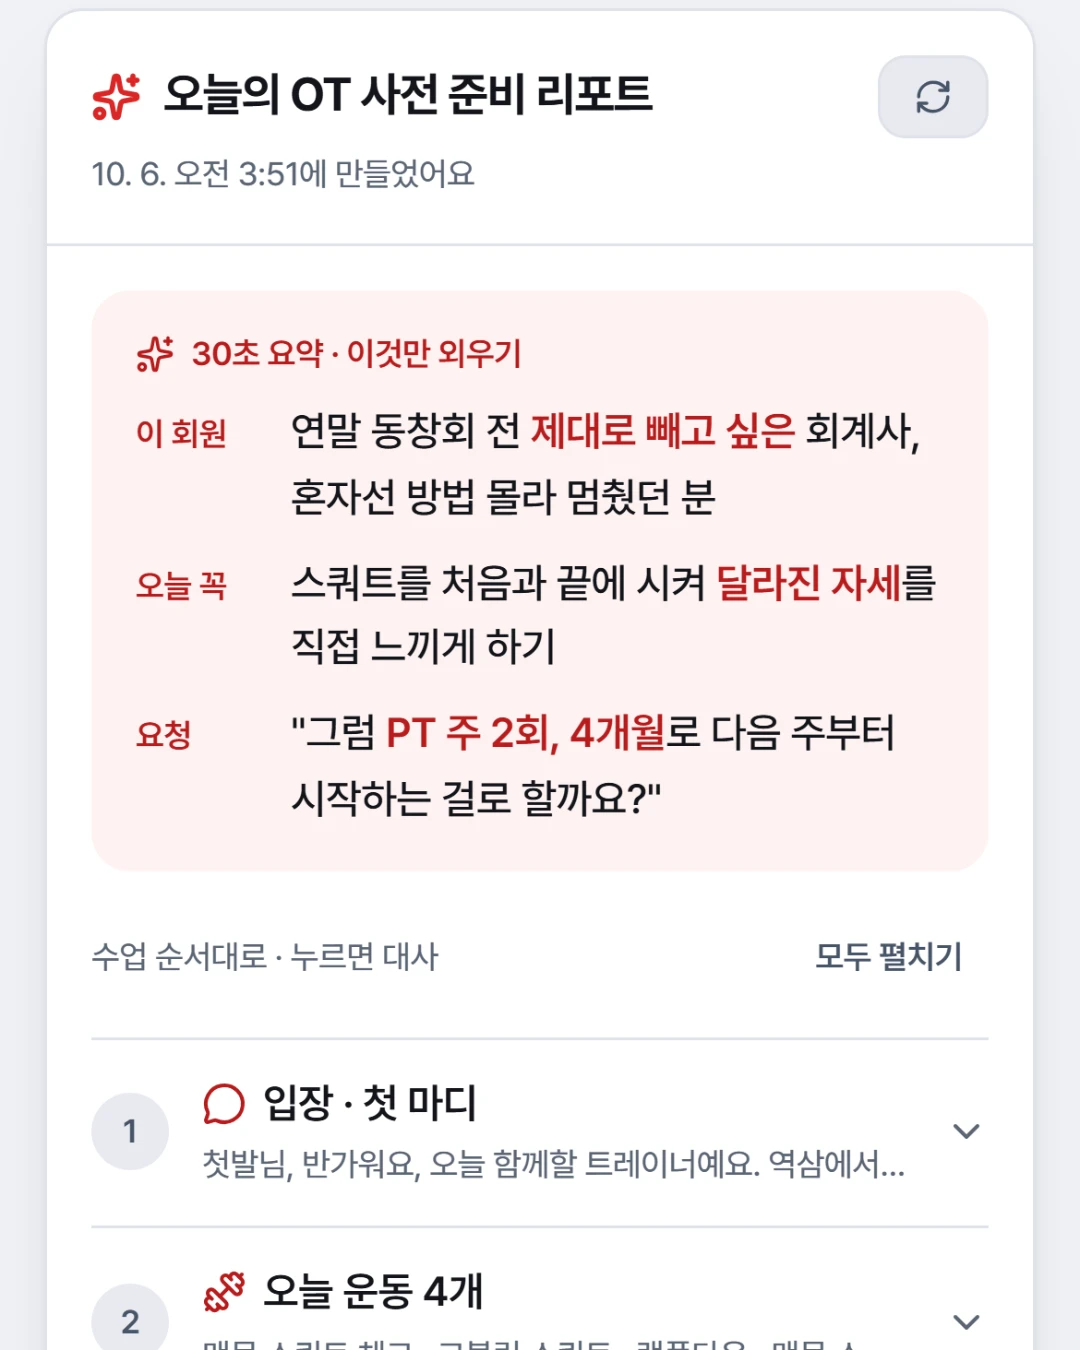
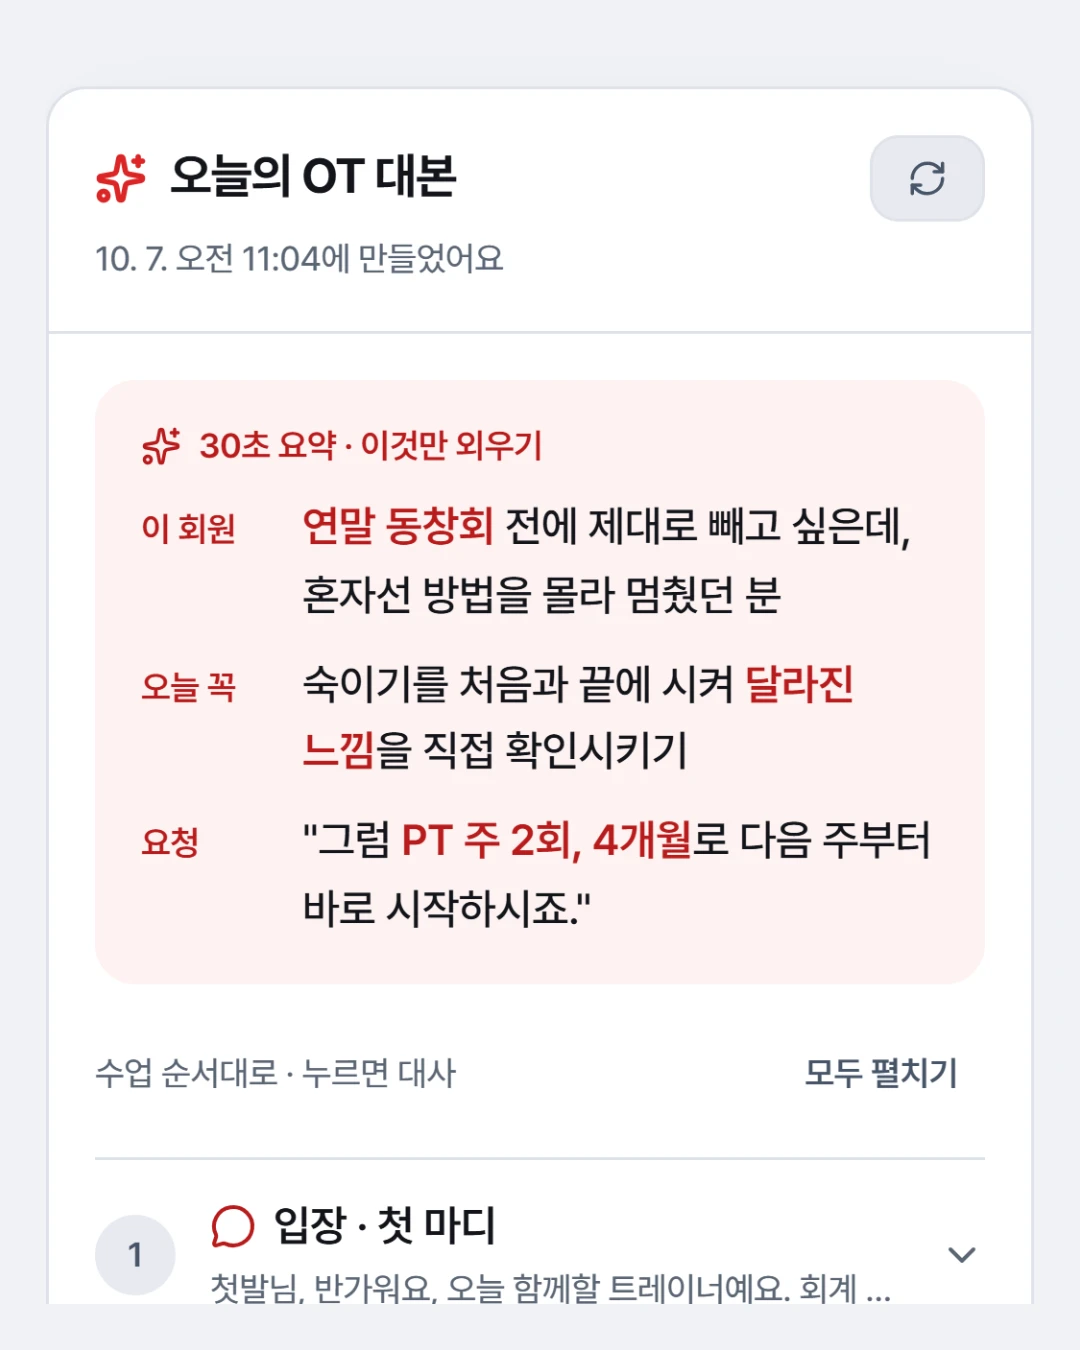
shots(lp): 대본 사진을 새 이름 · 새 클로징으로 다시 찍음(T07 · T09 · T09b · T15 · W03 · W04) · 운동일지 '앱이 정리' 실제 결과(T26)

diff --git a/app/lp/page.jsx b/app/lp/page.jsx
@@ -57,7 +57,7 @@ const LOG_STEPS = [
     quote: "오늘 벤치프레스 20킬로 12개씩 5세트 했어요.",
     caption: "수업 끝나고 폰에 대고 이 한 마디만 했어요. 받아 적거나 표를 채울 필요가 없어요.",
   },
-  { step: "앱이 정리", who: "앱이 만든 화면", img: "/lp/shots/2026-10/T18.webp", alt: "지난 수업: 음성으로 남긴 운동일지와 종목 · 무게 · 횟수 · 세트",
+  { step: "앱이 정리", who: "앱이 만든 화면", img: "/lp/shots/2026-10/T26.webp", alt: "지난 수업: 위 한 마디를 앱이 정리한 운동일지 · 벤치프레스 20kg 12회 5세트와 운동 방법",
     caption: "앱이 종목 · 무게 · 횟수 · 세트를 표로 채우고, 운동 방법까지 써요. 이 기록이 쌓여 무게 변화 그래프가 돼요." },
   { step: "회원 폰", who: "회원 폰 화면", img: "/lp/shots/2026-10/M08.webp", alt: "회원 폰에 도착한 운동일지: 종목별 세트 · 무게 · 횟수 표",
     caption: "정리된 운동일지가 회원 폰으로 가요. 회원은 확인하고 손가락으로 서명해요. 종이 수업 확인서가 필요 없어요." },
@@ -72,11 +72,12 @@ const BUNDLES = [
     desc: "회원이 QR로 쓴 신청서를 보고, OT에서 할 말을 앱이 대본으로 써 줘요.",
     point: "망설일 때 대답 5가지 · 오늘 시킬 운동까지",
     checks: ["회원이 QR을 찍어 OT를 신청하면서 원하는 시간 · 목표 · 아픈 곳을 미리 적어요", "OT 들어가기 전, 할 말과 오늘 시킬 운동을 앱이 정리해 줘요", "OT가 끝나면 결과를 몇 번 눌러 남기고, 그 내용으로 다음 OT를 준비해요"],
-    core: { img: "/lp/shots/2026-10/T09.webp", alt: "OT 대본의 클로징: 왜 PT가 필요한지 · 확인 질문 · 추천 플랜 대사와 가격 한 줄",
+    core: { img: "/lp/shots/2026-10/T09b.webp", alt: "OT 대본의 클로징: 추천 플랜 대사와 가격 한 줄 · 요청 '다음 주부터 바로 시작하시죠' · 이어서 웃으며 가벼운 한마디",
         who: "앱이 만든 화면",
-        caption: "회원이 QR로 쓴 신청서와 내 가격표로 앱이 쓴 대사예요. OT 마지막에 읽기만 하면 돼요. 이 회원에게 맞는 PT 횟수와 가격도 같이 나와요.",
+        caption: "회원이 QR로 쓴 신청서와 내 가격표로 앱이 쓴 대사예요. OT 마지막에 읽기만 하면 돼요. 추천 횟수 · 가격, 요청 한 마디, 웃으며 덧붙일 말까지 나와요.",
     },
     items: [
+      { name: "왜 PT가 필요한지", desc: "이 회원에게 맞춘 이유와 '왜 지금인지'", img: "/lp/shots/2026-10/T09.webp", alt: "OT 대본의 클로징 앞부분: 왜 PT가 필요한지 · 확인 질문" },
       { name: "한눈에 요약", desc: "이 회원 · 오늘 꼭 할 것 · 등록 제안을 세 줄로", img: "/lp/shots/2026-10/T07.webp", alt: "OT 대본 맨 위 30초 요약: 이 회원 · 오늘 꼭 · 요청 한 줄씩" },
       { name: "QR 신청서", desc: "회원이 폰으로 원하는 요일 · 시간을 직접", img: "/lp/shots/2026-10/T02.webp", alt: "회원이 보는 OT 신청서: 원하는 요일 · 시간 고르기" },
       { name: "신청 알림", desc: "신청이 들어오면 바로 내 폰에", img: "/lp/shots/2026-10/T04.webp", alt: "트레이너 홈의 새 OT 회원 카드: 내 QR로 신청 · 원하는 시간" },
